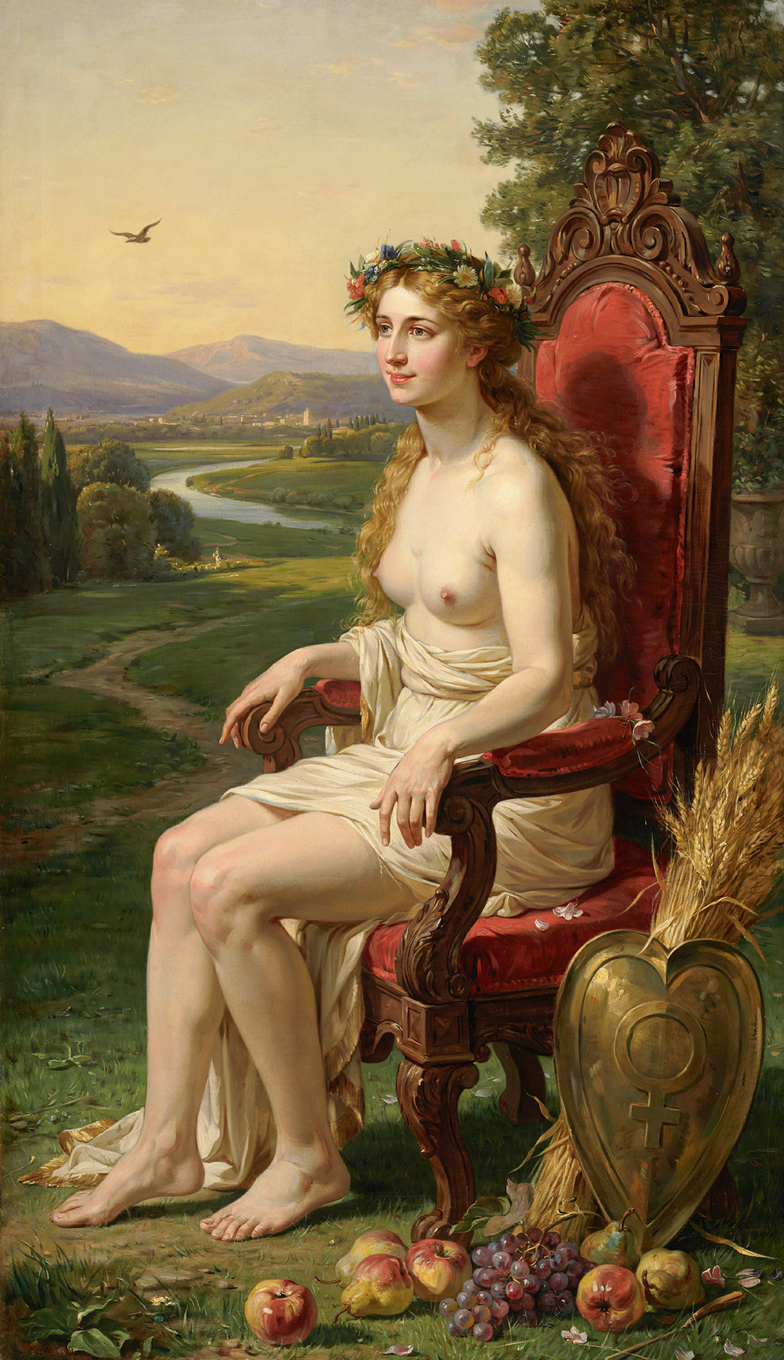
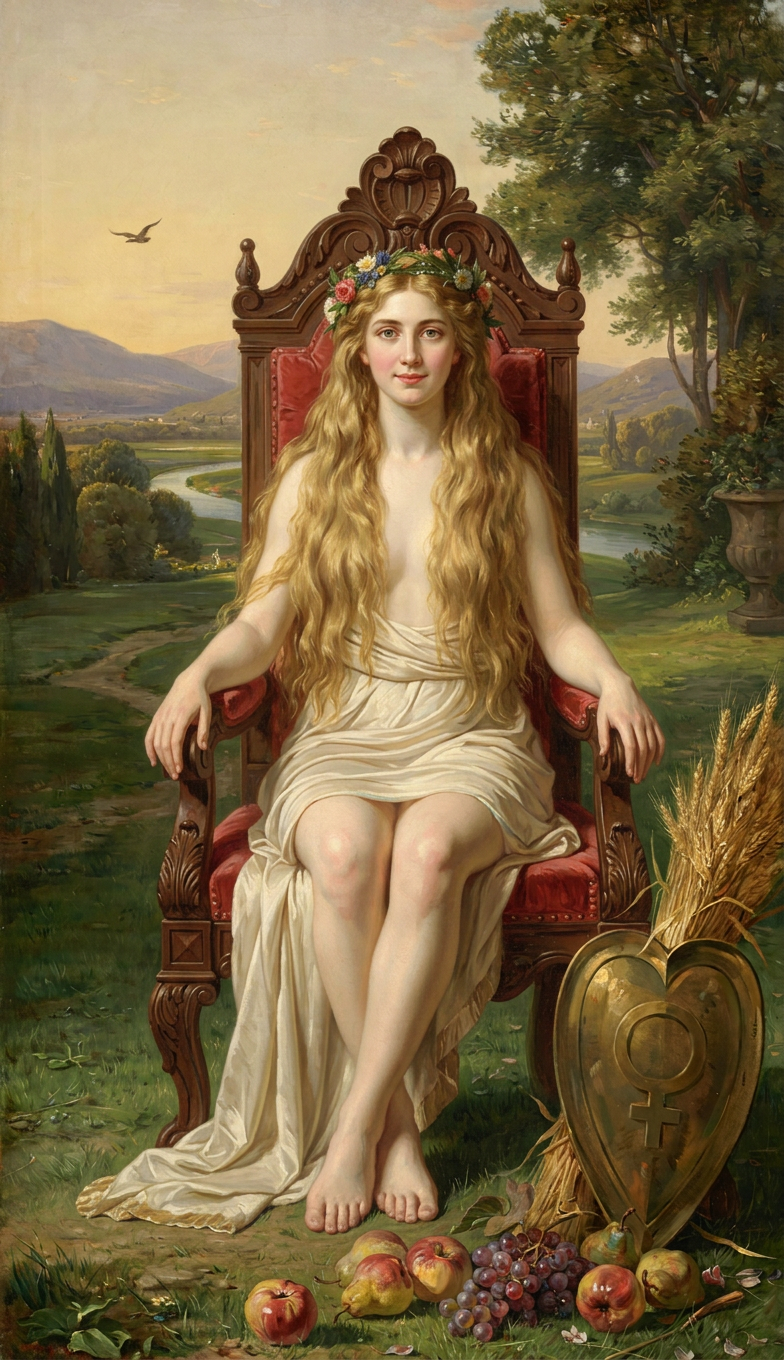
Switch Magician and Empress to front-facing views

diff --git a/cardstarot/README.md b/cardstarot/README.md
@@ -2,58 +2,68 @@
 
 Ngày cập nhật: **05/09/2026**.
 
-## Kết quả hiện tại
+## Bản hiện tại: góc chính diện
 
-**Có 3/22 ảnh trong thư mục chính:** The Fool, The Magician và The Empress. Lượt này đã tạo được **hai ảnh mới**; **The High Priestess vẫn chưa có ảnh**. Lần tạo Priestess không trả về ảnh, sau đó công cụ báo đạt hạn mức nên chưa thể thử tiếp. Không có tác vụ tạo ảnh chạy ngầm.
+The Magician và The Empress đã được tạo lại theo lựa chọn **góc nhìn chính diện**. Magician vẫn đứng; Empress vẫn ngồi trên ngai. Cả hai dùng tóc dài buông về phía trước để giữ bố cục kín đáo, không thêm áo ở phần trên.
 
-| Lá | Ảnh | Kích thước | Trạng thái |
+**Riêng Magician: người dùng đã chấp nhận bản chính diện có lụa dài xuống chân.** Đây là lựa chọn được xác nhận, không phải tự thay khăn ngắn mà không thông báo.
+
+| Lá | Ảnh hiện tại | Kích thước | Trạng thái |
 |---|---|---|---|
-| 00 — THE FOOL | [00-fool.png](00-fool.png) | PNG 784 × 1360 | Giữ nguyên ảnh đã tạo trước |
-| 01 — THE MAGICIAN | [01-magician.png](01-magician.png) | PNG 784 × 1360 | Đã tạo; nhìn từ sau, lụa quấn eo; đủ bốn vật trên bàn |
-| 02 — THE HIGH PRIESTESS | Chưa có | — | Đã thử tạo; chưa nhận được ảnh |
-| 03 — THE EMPRESS | [03-empress.png](03-empress.png) | PNG 784 × 1360 | Bản đã chọn, còn khác biệt về góc máy và độ dài tà lụa |
+| 00 — THE FOOL | [00-fool.png](00-fool.png) | PNG 784 × 1360 | Giữ nguyên |
+| 01 — THE MAGICIAN | [01-magician.png](01-magician.png) | PNG 784 × 1360 | Chính diện, đứng; lụa dài đã được chấp nhận |
+| 02 — THE HIGH PRIESTESS | Chưa có | — | Không nằm trong lượt sửa này; giữ trạng thái còn thiếu |
+| 03 — THE EMPRESS | [03-empress.png](03-empress.png) | PNG 784 × 1360 | Chính diện, ngồi trên ngai |
 
-Các lá 04–21 chưa được tạo trong thư mục này.
+Vẫn có **3/22 ảnh** trong thư mục chính. Lượt này thay hai ảnh hiện có, không tạo thêm lá mới và không tự tạo Priestess hoặc các lá 04–21. Không có tác vụ tạo ảnh chạy ngầm.
 
-## Hai ảnh mới
+## Xem hai bản chính diện
 
 | The Magician | The Empress |
 |---|---|
-| [![The Magician](01-magician.png)](01-magician.png) | [![The Empress](03-empress.png)](03-empress.png) |
+| [![The Magician — chính diện](01-magician.png)](01-magician.png) | [![The Empress — chính diện](03-empress.png)](03-empress.png) |
 
-## Kiểm tra và hậu kỳ
+## Kiểm tra và cách tạo
 
 ### The Magician
 
-- Bản được chọn ban đầu có kích thước **1776 × 2368**, khác tỷ lệ khổ bài. [Bản gốc đã chọn](references/01-magician-selected-original.png) được giữ riêng để đối chiếu.
-- Nếu chỉ cắt ảnh theo khổ bài, đầu gậy trên bàn sẽ bị cắt mất. Hậu kỳ bằng code đã dùng chính đầu gậy trong ảnh gốc để thu ngắn phần xa của gậy, giữ nguyên số lượng và tách biệt các đồ vật; đồng thời làm đầu gậy đang cầm kết thúc bên trong ảnh thay vì chạy ra mép trên.
-- Sau đó cắt khung dọc và thu nhỏ bằng Lanczos về **784 × 1360**, không bóp méo thân người để ép từ tỷ lệ 3:4 sang khổ bài.
-- Đã kiểm tra bằng mắt: trên bàn có **một cốc, một kiếm, một gậy, một đồng tiền**; gậy trong tay là đạo cụ riêng. Giữ góc nhìn từ sau, tóc đen và lụa ngắn ở eo/hông, không khung hoặc chữ.
+- Bản cuối được dựng mới từ mô tả sau khi thao tác đổi góc trên ảnh cũ không trả về ảnh; không phải xoay ảnh cũ bằng code.
+- Giữ nhân vật trưởng thành 22 tuổi, tóc đen dài, tư thế một tay giơ gậy và tay kia chỉ xuống, vườn hoa hồng đen, bàn tế đá.
+- Đã kiểm tra bằng mắt: có đúng **một cốc, một kiếm, một gậy và một đồng tiền** trên bàn; gậy trong tay là đạo cụ riêng. Không có khung hoặc tiêu đề.
+- Tấm lụa dài là phiên bản người dùng đã chọn giữ. Prompt render cho riêng lá này được cập nhật theo lựa chọn đó; không áp dụng ngoại lệ lụa dài cho các lá chưa được yêu cầu.
+- Ảnh sinh ra ở **952 × 1652**, được thu nhỏ theo tỷ lệ và chuẩn hóa về **784 × 1360**. Không cắt ghép lại cơ thể hoặc sửa đầu gậy trong bản chính diện này.
 
-### The Empress — ghi rõ khác biệt
+### The Empress
 
-- Giữ bản bạn đã chọn, thu nhỏ theo tỷ lệ và cắt giữa nhẹ từ **1440 × 2560** về **784 × 1360**; không chỉnh sửa cơ thể, trang phục hay đạo cụ.
-- Ảnh có vòng hoa, ngai nhung đỏ, khiên trái tim, lúa mì, trái cây và phong cảnh sông núi.
-- **Góc nhìn thực tế là chếch trước, không phải từ sau như prompt.** Tà lụa cũng dài hơn yêu cầu khăn quấn ngắn. Vì vậy ảnh được ghi là **bản đã chọn có khác biệt**, không tuyên bố đáp ứng toàn bộ ràng buộc góc máy/trang phục.
-- [Bản váy dài từ lượt trước](references/03-empress-before-waist-silk.png) vẫn được giữ riêng làm tham chiếu, không tính là ảnh mới của lượt này.
+- Chỉnh từ bản đã chọn trước đó sang chính diện; vẫn ngồi, hai tay trên tay vịn, giữ vòng hoa, tóc vàng, ngai nhung, khiên trái tim, lúa mì và trái cây.
+- Tóc buông phía trước che phần ngực. Nếp lụa và tà bên được giữ từ ảnh tham chiếu, không thay bằng một trang phục khác.
+- Ảnh trả về đúng **784 × 1360**, chỉ chuẩn hóa PNG RGB. Góc chếch trước ở bản cũ đã được thay bằng chính diện.
 
-## Prompt và ngữ cảnh góc máy
+## Các file prompt
 
-| Lá | Prompt yêu cầu | Văn bản gửi ở lần tạo chính trong lượt này |
+| Lá | Prompt yêu cầu hiện tại | Văn bản dùng tạo bản hiện tại |
 |---|---|---|
 | The Magician | [01-magician.next.txt](01-magician.next.txt) | [01-magician.sent.txt](01-magician.sent.txt) |
-| The High Priestess | [02-priestess.next.txt](02-priestess.next.txt) | [02-priestess.sent.txt](02-priestess.sent.txt) |
+| The High Priestess | [02-priestess.next.txt](02-priestess.next.txt) | [02-priestess.sent.txt](02-priestess.sent.txt) — lượt trước, chưa có ảnh |
 | The Empress | [03-empress.next.txt](03-empress.next.txt) | [03-empress.sent.txt](03-empress.sent.txt) |
 
-- Nội dung ba file `*.next.txt` giữ nguyên so với lần bổ sung góc máy; không viết lại nhân vật, tuổi, trang phục hay đạo cụ để khớp ngược với ảnh.
-- Góc máy được yêu cầu: Magician sau chếch trái nhìn rõ bàn; Priestess sau chếch phải nhìn vào lòng; Empress sau chếch phải qua cạnh ngai. Phần trước của thân trên được yêu cầu nằm ngoài góc nhìn, dải lụa eo/hông đủ kín.
-- `*.sent.txt` ghi đúng văn bản của lần gọi tạo ảnh chính. Có file prompt không đồng nghĩa đã có ảnh — Priestess vẫn thiếu ảnh.
-- Mục tiêu chung vẫn là tranh phủ kín ảnh, không khung, không chữ, PNG **784 × 1360**. Đây là artwork-only nên không áp dụng phép chấm viền vàng của bộ bài gốc.
-- Việc dừng theo lựa chọn trước đây đã được mở lại khi người dùng yêu cầu tạo ảnh trong lượt này. Lượt đã kết thúc với hai ảnh mới; phần còn thiếu không tự chạy tiếp.
+- Chỉ khối góc máy của Magician/Empress được chuyển sang chính diện. Mô tả lụa của Magician cũng được điều chỉnh ở file render riêng theo lựa chọn chấp nhận lụa dài.
+- Nội dung gốc về tuổi, nhân vật, cảnh và đạo cụ của Empress trước phần góc máy vẫn được giữ nguyên. Với thao tác chỉnh ảnh Empress, trang phục thực tế theo bản tham chiếu đã chọn, gồm cả tà lụa bên.
+- Với Magician và Empress, `*.sent.txt` lưu đúng văn bản của lần tạo thành công tương ứng; Magician là tạo từ văn bản, Empress là chỉnh ảnh có tham chiếu. File `.sent.txt` của Priestess vẫn ghi lượt trước chưa tạo được ảnh. `*.next.txt` là mô tả yêu cầu, không phải hàng đợi tự chạy.
+- [manifest.json](manifest.json) ghi trạng thái, kích thước, hash, ảnh tham chiếu, cách hậu kỳ và lựa chọn lụa dài được xác nhận. Kiểm tra kỹ thuật không phải chứng nhận mọi chi tiết giải phẫu đều hoàn hảo.
 
-## Bảo toàn dữ liệu
+## Giữ lại các bản trước
+
+- [Magician trước khi đổi sang chính diện](references/01-magician-before-front.png) · [prompt của bản cũ](references/01-magician-before-front.sent.txt).
+- [Empress trước khi đổi sang chính diện](references/03-empress-before-front.png) · [prompt của bản cũ](references/03-empress-before-front.sent.txt).
+- [Magician nguyên gốc đã chọn ở lượt trước](references/01-magician-selected-original.png), trước bước hậu kỳ khổ bài của bản nhìn từ sau.
+- [Empress váy dài của lượt trước nữa](references/03-empress-before-waist-silk.png).
+
+Các bản trong `references/` không được tính thành lá mới.
+
+## Bảo toàn nguồn
 
 - [Bộ prompt tiếng Việt gốc](../prompts/out6_vi/README.md) và [bản tổng hợp 78 prompt](../prompts/out6_vi/TAT-CA-78-PROMPT.md) không thay đổi.
-- Không sửa `tarot prompt/cards.json`, prompt tiếng Anh, ảnh trong `cards/`, `cards2/`, `cards3/`, bộ chuẩn khung hoặc gallery mặc định.
-- The Fool trong thư mục này vẫn trùng byte với `cards_vi/00-fool.png`.
-- [manifest.json](manifest.json) ghi trạng thái thực tế, kích thước, hash, thao tác hậu kỳ và các điểm khác biệt đã nhận thấy. Kiểm tra kỹ thuật không phải chứng nhận mọi chi tiết giải phẫu đều hoàn hảo.
+- Không sửa `tarot prompt/cards.json`, prompt tiếng Anh, ảnh trong `cards/`, `cards2/`, `cards3/`, chuẩn khung hoặc gallery mặc định.
+- The Fool vẫn trùng byte với `cards_vi/00-fool.png`. Ảnh, prompt và metadata của Priestess không bị sửa trong lượt này.
+- Tất cả ảnh chính giữ khổ **784 × 1360**, tranh phủ kín ảnh, không khung và không chữ; không áp dụng phép chấm viền vàng của bộ bài gốc.
